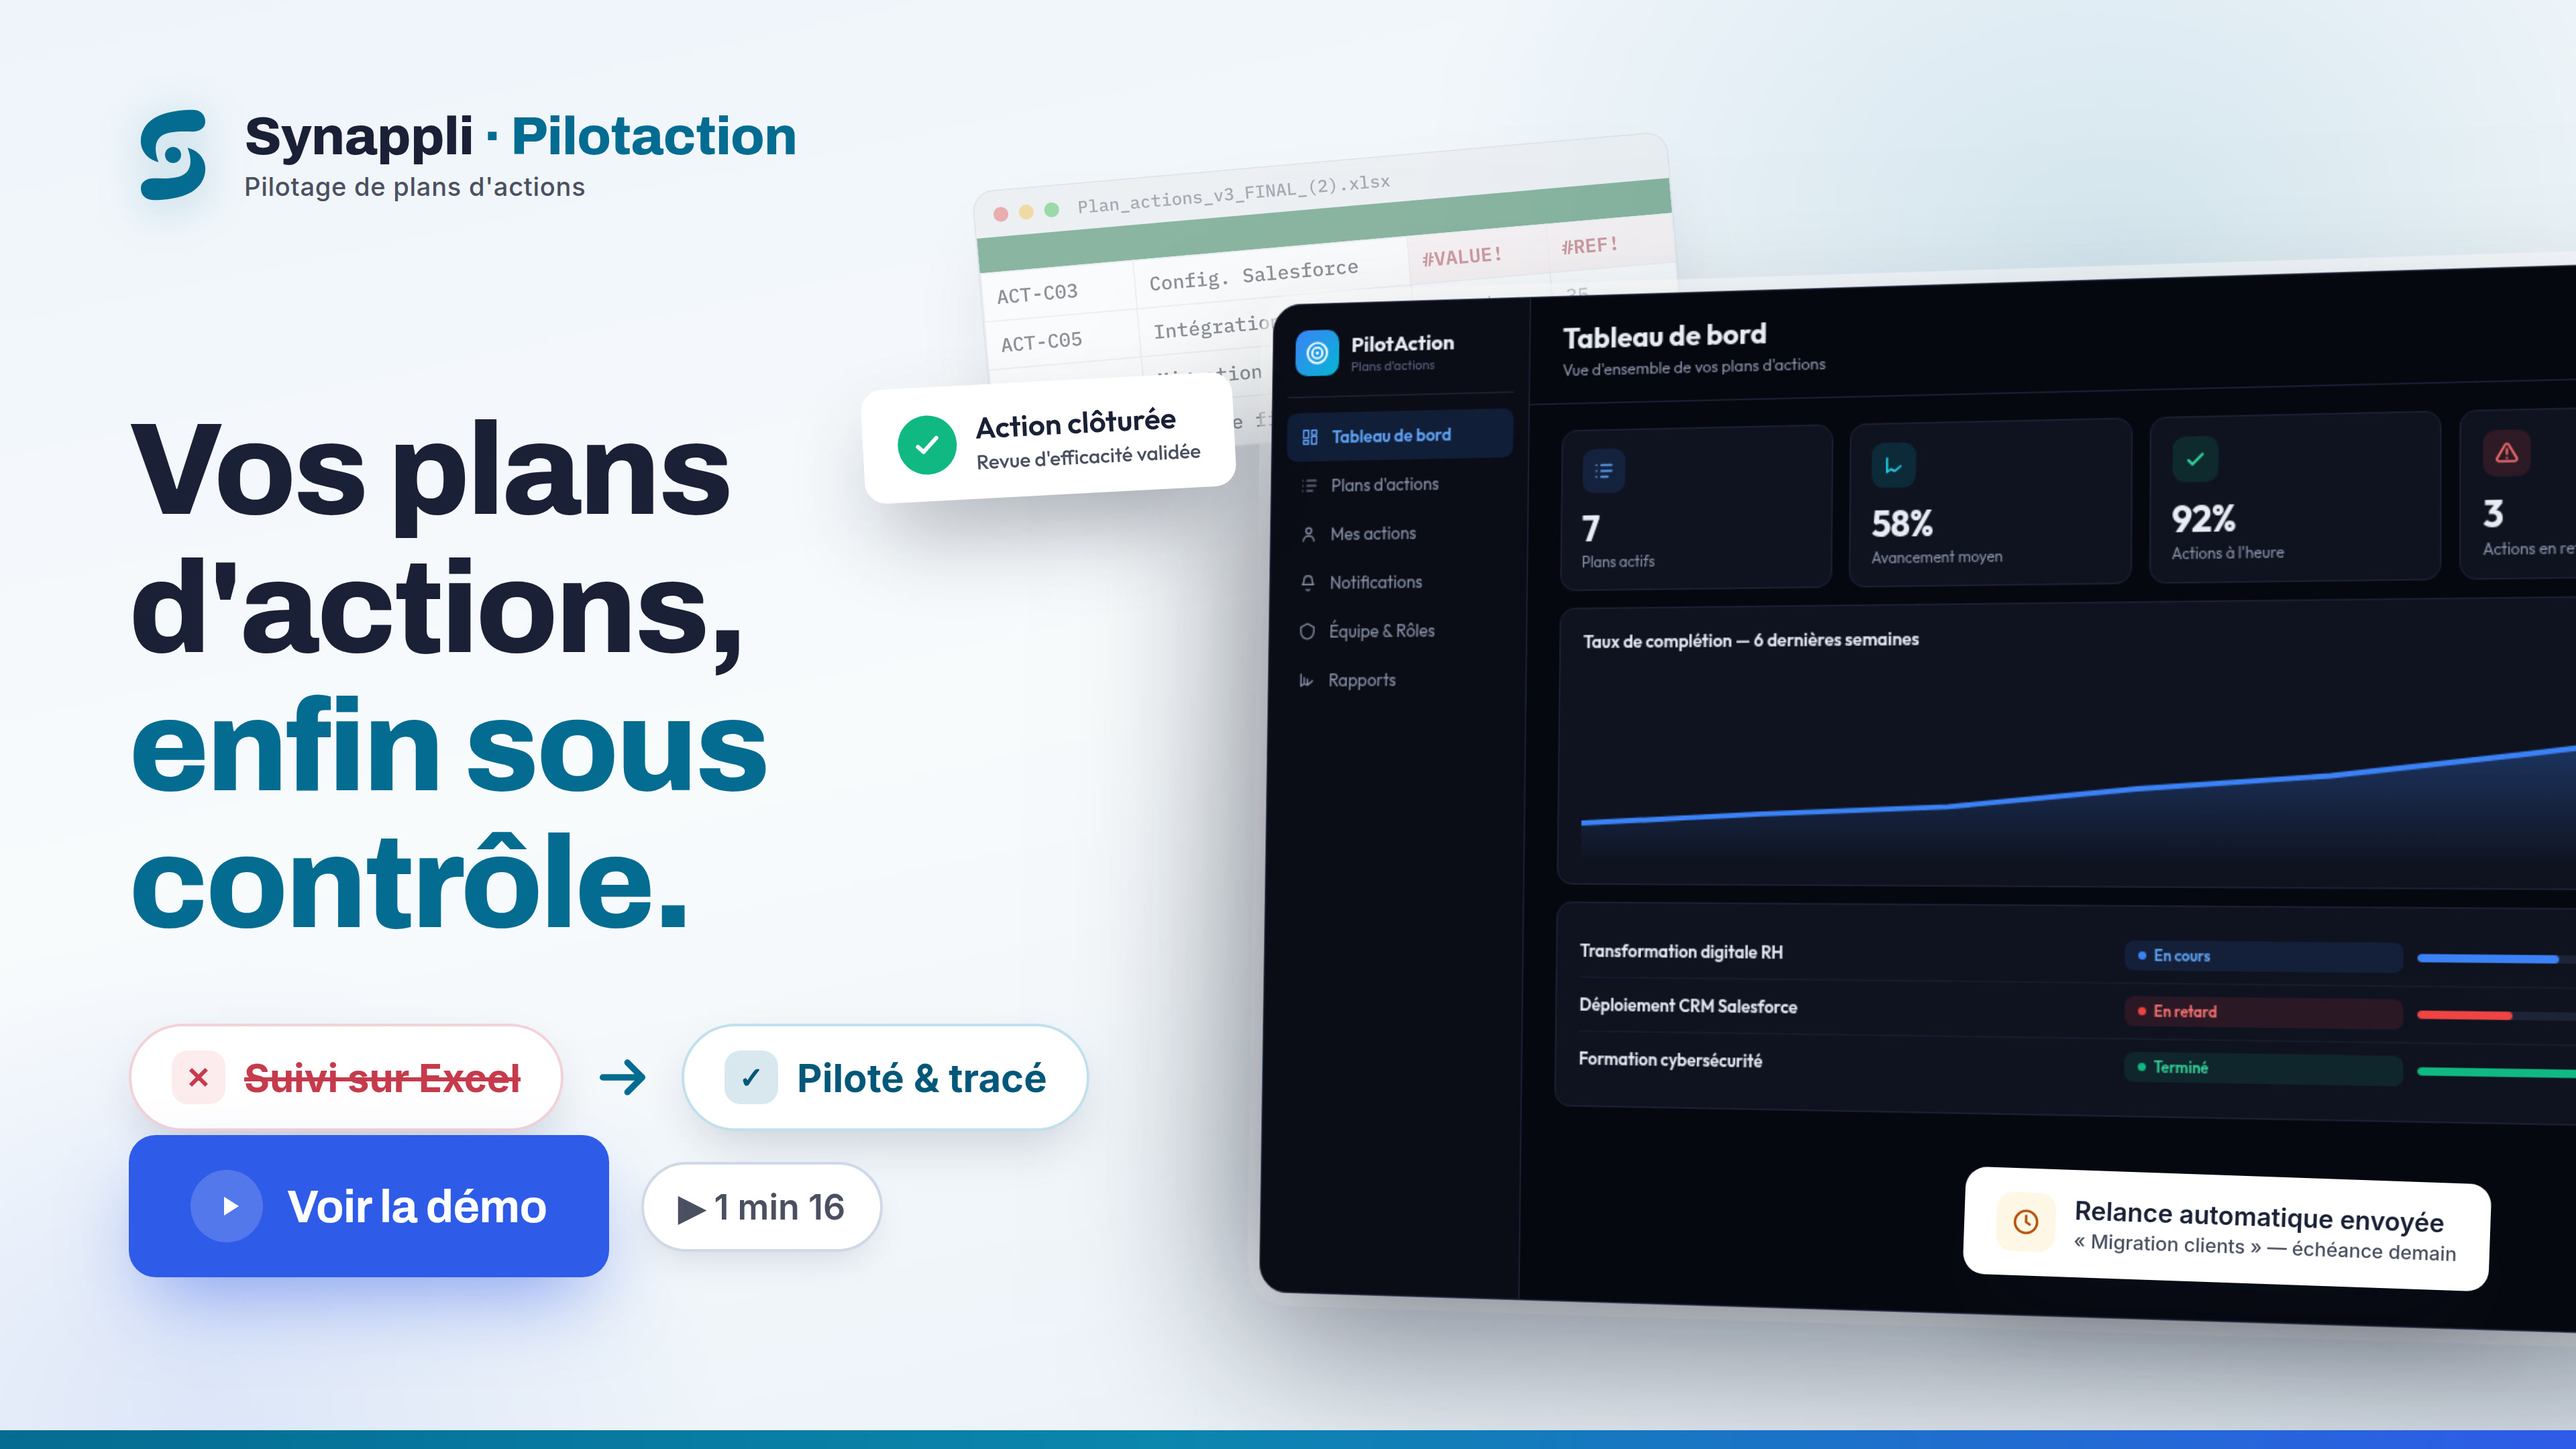
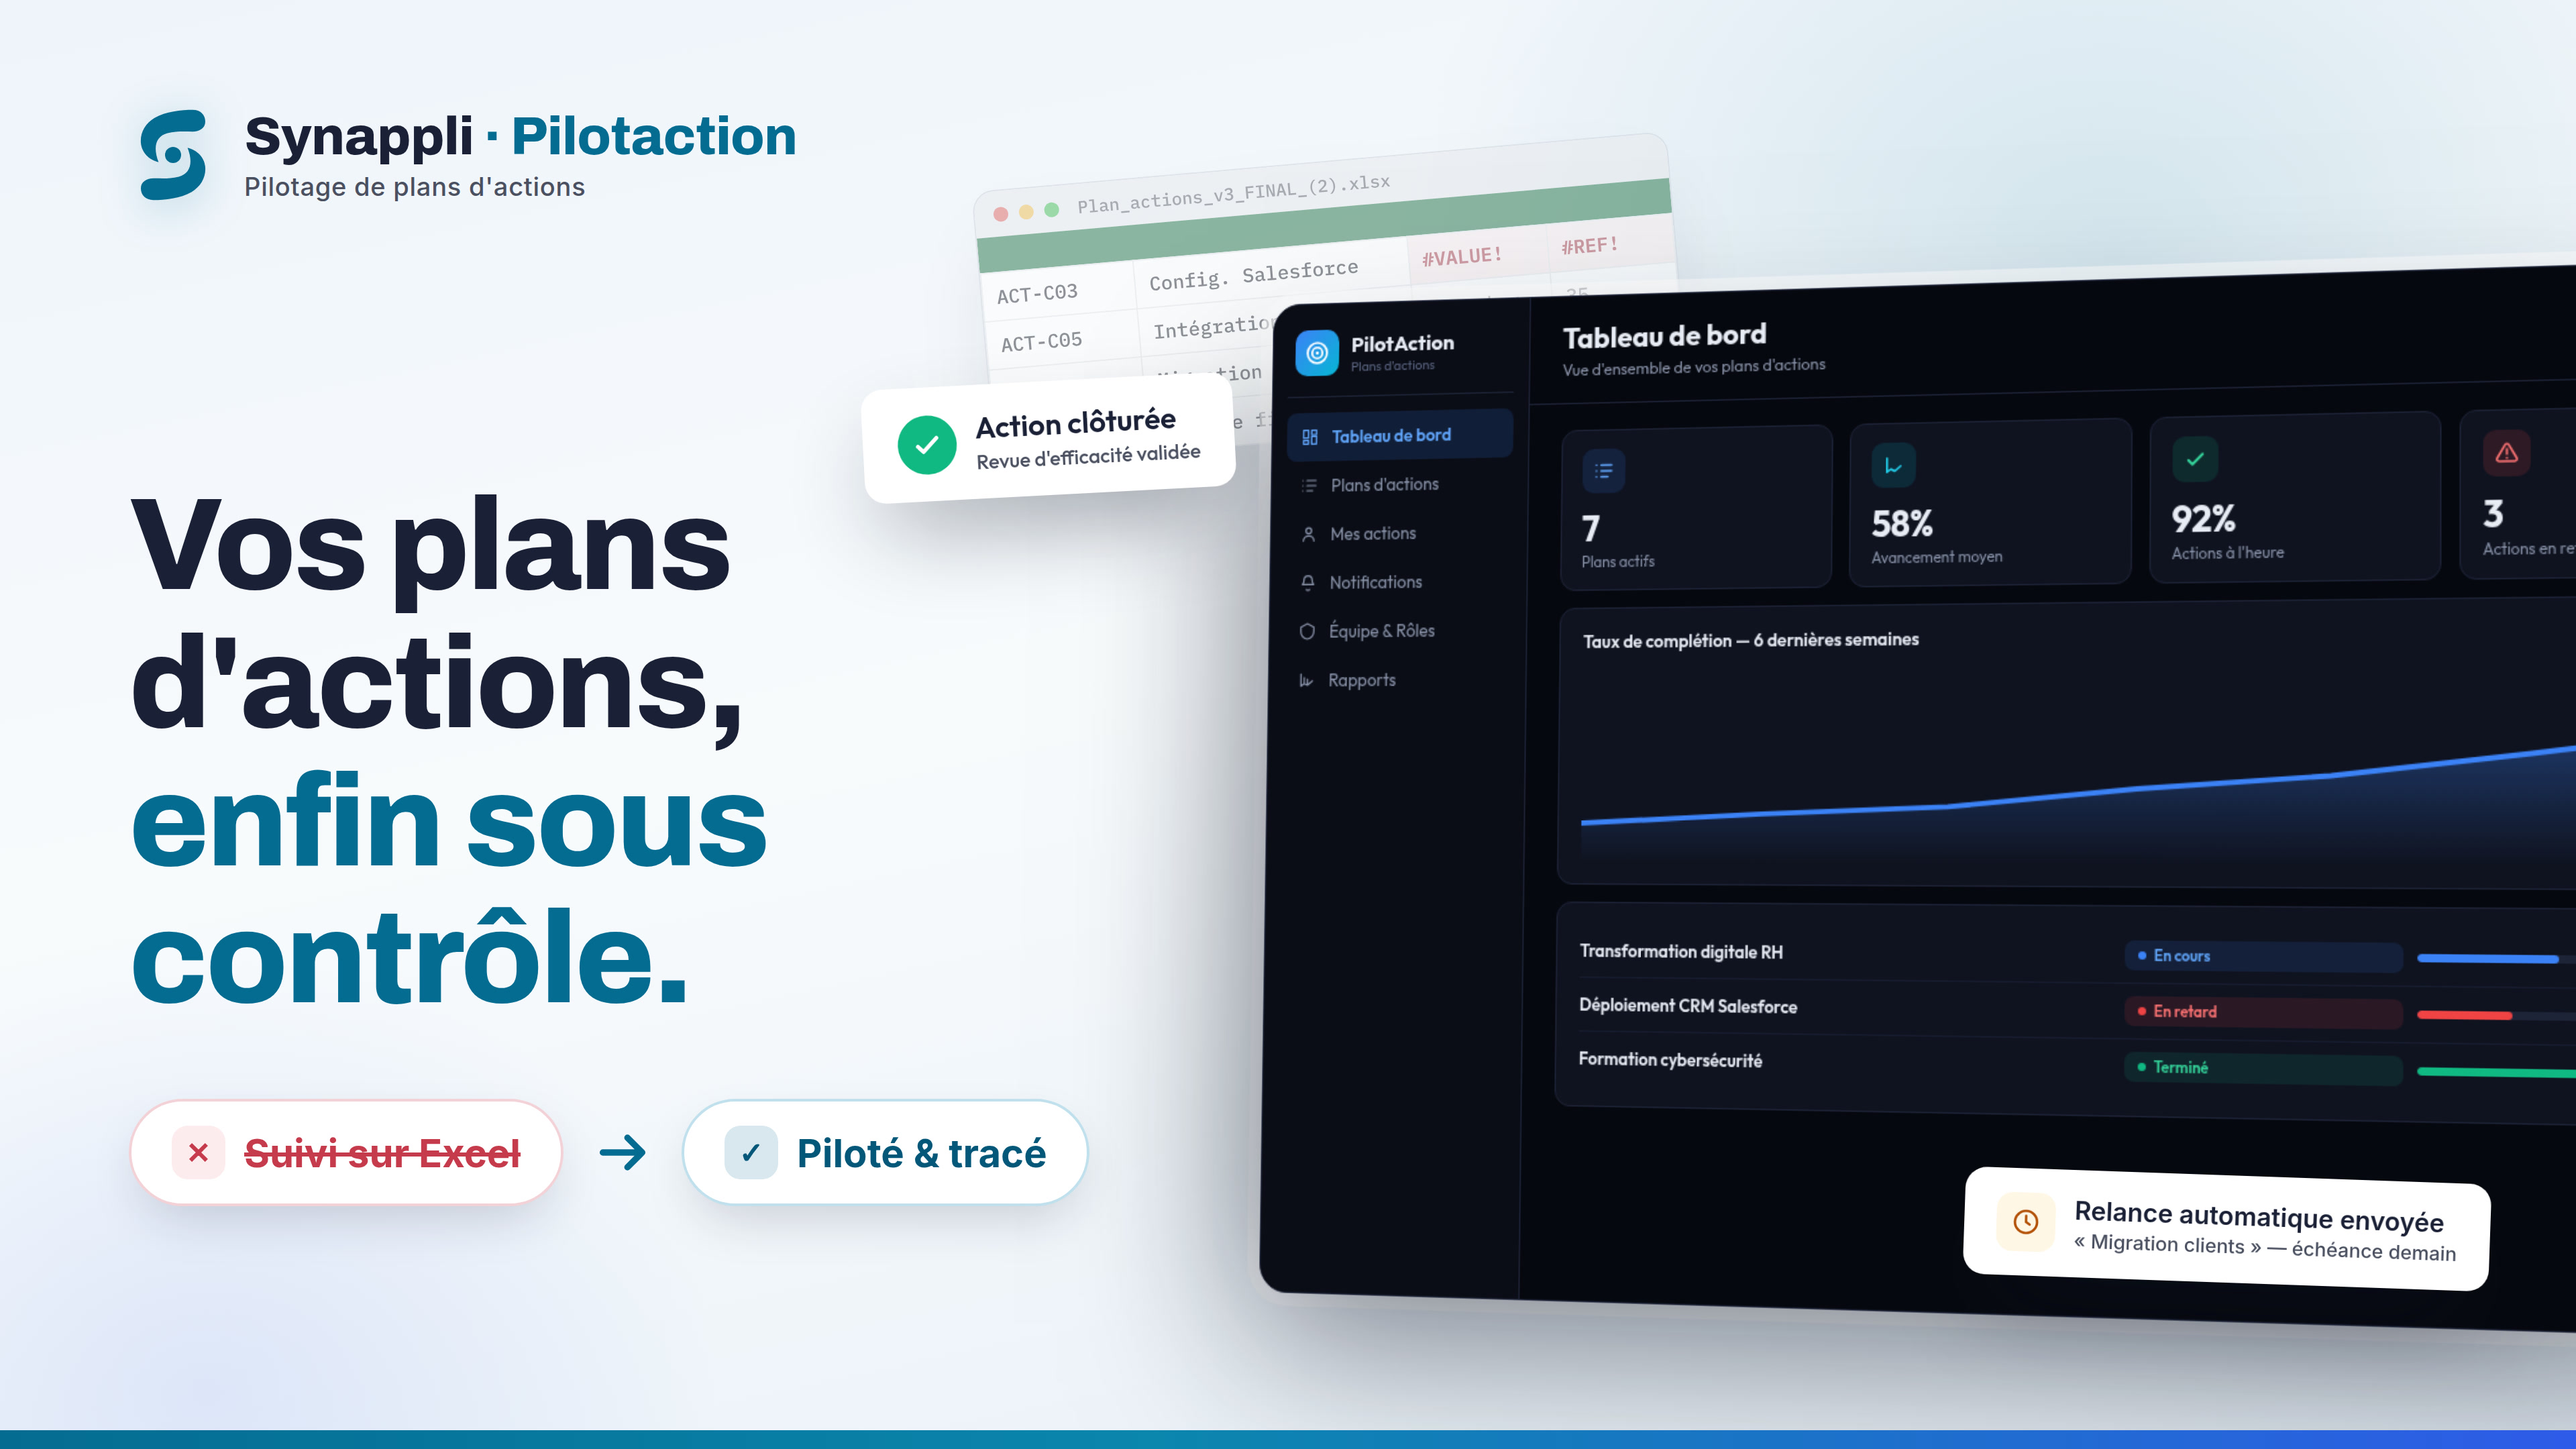
Miniature : retire les boutons « Voir la démo » et « 1 min 16 »
Colonne de gauche rééquilibrée (titre recentré verticalement).

Claude-Session: https://claude.ai/code/session_01RoogCKd7gD4Cq9Q1bgP4LD

Changed region(s): [[0.0312, 0.2792, 0.4375, 0.9306]]

diff --git a/video/thumbnail.html b/video/thumbnail.html
@@ -37,7 +37,7 @@
   .brand .wm small { display:block; font-family:var(--font); font-weight:500; font-size:19px; color:var(--gray); letter-spacing:.02em; margin-top:8px; }
 
   /* ---------- Colonne gauche ---------- */
-  .headline { position:absolute; left:96px; top:300px; width:800px; }
+  .headline { position:absolute; left:96px; top:356px; width:800px; }
   h1 { font-family:var(--display); font-weight:800; font-size:97px; line-height:1.06; letter-spacing:-.022em; color:var(--navy); }
   h1 .accent { color:var(--teal); }
 
@@ -218,12 +218,6 @@
       <span class="arr"><svg viewBox="0 0 24 24" fill="none"><path d="M4 12h16M14 6l6 6-6 6" stroke="currentColor" stroke-width="2.6" stroke-linecap="round" stroke-linejoin="round"/></svg></span>
       <span class="chip good"><span class="mk">✓</span>Piloté &amp; tracé</span>
     </div>
-  </div>
-
-  <!-- play -->
-  <div class="play">
-    <span class="btn"><span class="tri"><svg viewBox="0 0 24 24" fill="#fff"><path d="M8 5v14l11-7z"/></svg></span>Voir la démo</span>
-    <span class="dur">▶ 1 min 16</span>
   </div>
 
   <div class="brandline"></div>
